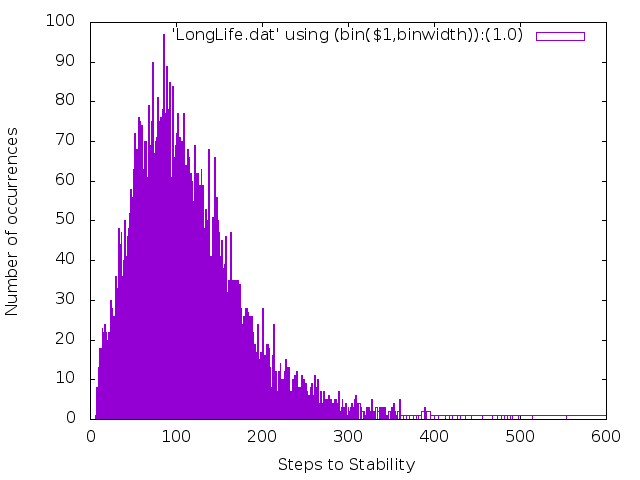
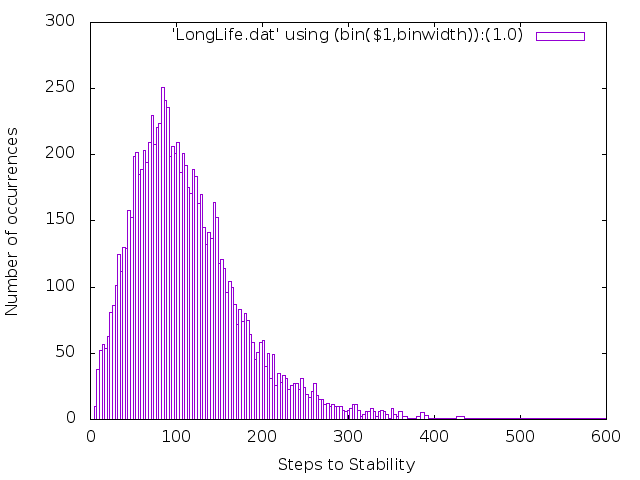
Added simulations concerning the relationship between the number of steps till stability and the probability of occupation in the initial state

diff --git a/sts_occupation.cpp b/sts_occupation.cpp
@@ -1,0 +1,52 @@
+/*
+	
+	Analyses the relationship between the average STS (Steps to stability) and
+	the initial occupation of the board.
+*/
+
+#include <iostream>
+#include <fstream>
+#include "board.hpp"
+
+#define DIRECTORY "sts_vs_occupation/"
+
+using namespace std;
+using namespace RuleStrings;
+
+int main( void ) {
+	
+	srand(time(NULL));
+	
+	ofstream out;
+	const int sizeH = 8;
+	const int sizeV = 8;
+	const int minOccupation = 0;
+	const int maxOccupation = sizeV*sizeH;
+	const int n_repetitions = 1E4;
+	
+	// Comment this loop and uncomment the "rule" line to run for a specific rule
+	for( auto & rule : RuleStrings::rules ) {
+	//Rule rule = Amoeba_rule;
+		
+		cout << "Starting rule " << rule.first << endl;
+		out.open(DIRECTORY + rule.first + "_sts_vs_occupation.dat");
+
+		Board B( Board::SizeV{sizeV}, Board::SizeH{sizeH}, rule.second );
+	
+		for( unsigned int occupation = minOccupation; occupation <= maxOccupation; occupation++ ) {
+			
+			cout << "\tComputing for Occupation = " << occupation << endl;
+			int count = 0;
+			for( int i = 0; i < n_repetitions; i++ ) {
+			
+				B.setRandom(occupation);
+				count += B.stepsToStability();
+			}
+			out << occupation << " " << static_cast<double>(count)/n_repetitions << endl;
+		}
+		cout << "Done..!" << endl;
+		out.close();
+	}
+	
+	return 0;
+}

diff --git a/2D_stability.cpp b/2D_stability.cpp
@@ -25,7 +25,7 @@ int main( void ) {
 	const int n_repetitions = 1E4;
 	const double prob = 0.6;
 
-	// Uncomment this loop and comment the "rule" line to run for all rules.
+	// Comment this loop and uncomment the "rule" line to run for a specific rule
 	for( auto & rule : RuleStrings::rules ) { 
 	//	Rule rule = LongLife_rule; 
 		Board B( Board::SizeV{vertSize}, Board::SizeH{horiSize}, rule.second );

diff --git a/README.md b/README.md
@@ -23,12 +23,15 @@ The interface allows us to run until stability in a fairly intuitive way:
 	}
 ```
 
+## Simulations
+
 It is interesting to see how many steps until stability we need. The question here is: for a given probability of occupation and a given rule, how many steps does the automaton need until it reaches a state that it had already been in before? My initial guess would be a Gaussian distribution around a peak that was centered around some value that increased with the size of the board. I was.. uh... wrong. 
 
 Let's see the results for several rules.
 
-### Parameters:
+### Distribution of \#steps until stability:
 
+Parameters:
 * p = 0.6
 * size = 10x10
 * number of experiments = 1E4
@@ -52,10 +55,36 @@ The data was acquired using `2D_stability.cpp`, and the histograms were made usi
 
 We can now choose to focus on one of the rules and run the experiment with a higher number of tests. I chose rule LongLife (5/345) because it's not clear what the distribution looks like in the previous case.
 
-Here is the result for 100x as many experiments.
+Here is the result for 100x as many experiments. This took about 15 minutes to compute in my machine (with an Intel Core i7 2.4GHz).
 
 #### LongLife (5/345)
 ![LongLife (5/345)](https://github.com/miguelrodriguesdossantos/CellularAutomata/blob/master/2D_stability/graphs/LongLife_1E6.png?raw=true)
+
+### Variation of \#steps until stability with the initial probability of occupation
+
+The only intuition I had for the results was that the number of steps til stability should drop to zero when the probability was too close to 0 or 1. I decided to run a simulation to see how the average \#steps to stability changes with the initial probability of occupation.
+
+The results were obtained using the source file `sts_occupation.cpp` with the following parameters:
+
+* 0 <= p <= 1
+* size = 8x8
+* number of experiments = 1E6
+
+The idea is to run a number of simulations for each probability of occupation (0 <= p <= 1) and calculate the average number of steps to stability.
+
+These are some of the most interesting results: 
+
+#### Assimilation (45678/345)
+![Assimilation (4567/345)](https://github.com/miguelrodriguesdossantos/CellularAutomata/blob/master/sts_vs_occupation/graphs/Assimilation_sts_vs_occupation.png?raw=true)
+
+#### ConwaysLife (23/3)
+![ConwaysLife (23/3)](https://github.com/miguelrodriguesdossantos/CellularAutomata/blob/master/sts_vs_occupation/graphs/ConwaysLife_sts_vs_occupation.png?raw=true)
+
+#### Maze (12345/3)
+![Maze (12345/3)](https://github.com/miguelrodriguesdossantos/CellularAutomata/blob/master/sts_vs_occupation/graphs/Maze_sts_vs_occupation.png?raw=true)
+
+#### Stains (235678/3678)
+![Śtains (235678/3678)](https://github.com/miguelrodriguesdossantos/CellularAutomata/blob/master/sts_vs_occupation/graphs/Stains_sts_vs_occupation.png?raw=true)
 
 <!---
 We will also look at the *stability period*, which is defined as the number of iterations the Automaton takes to return to the first repeated state. We'll look into it in more detail later.
